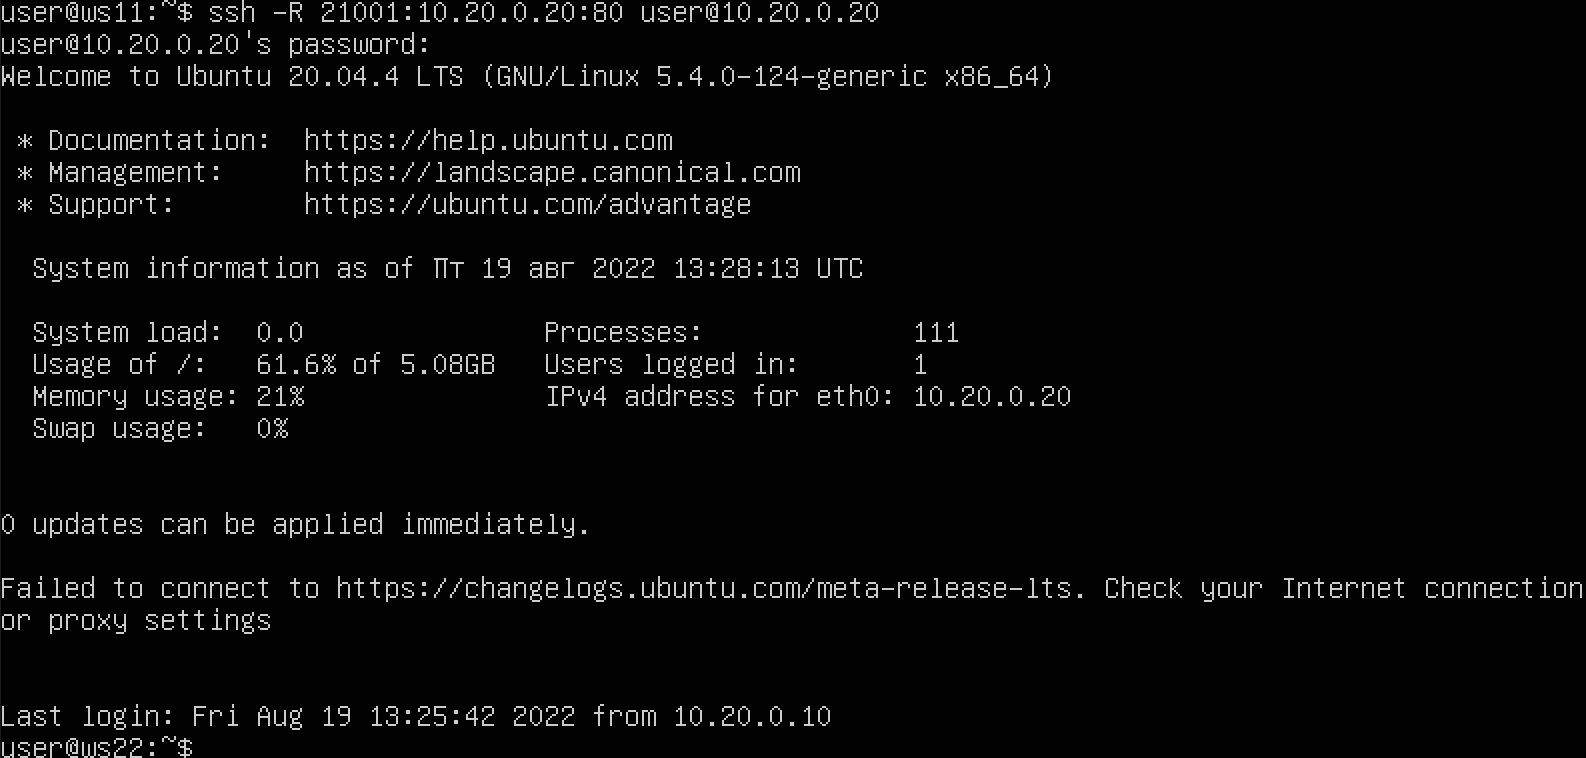
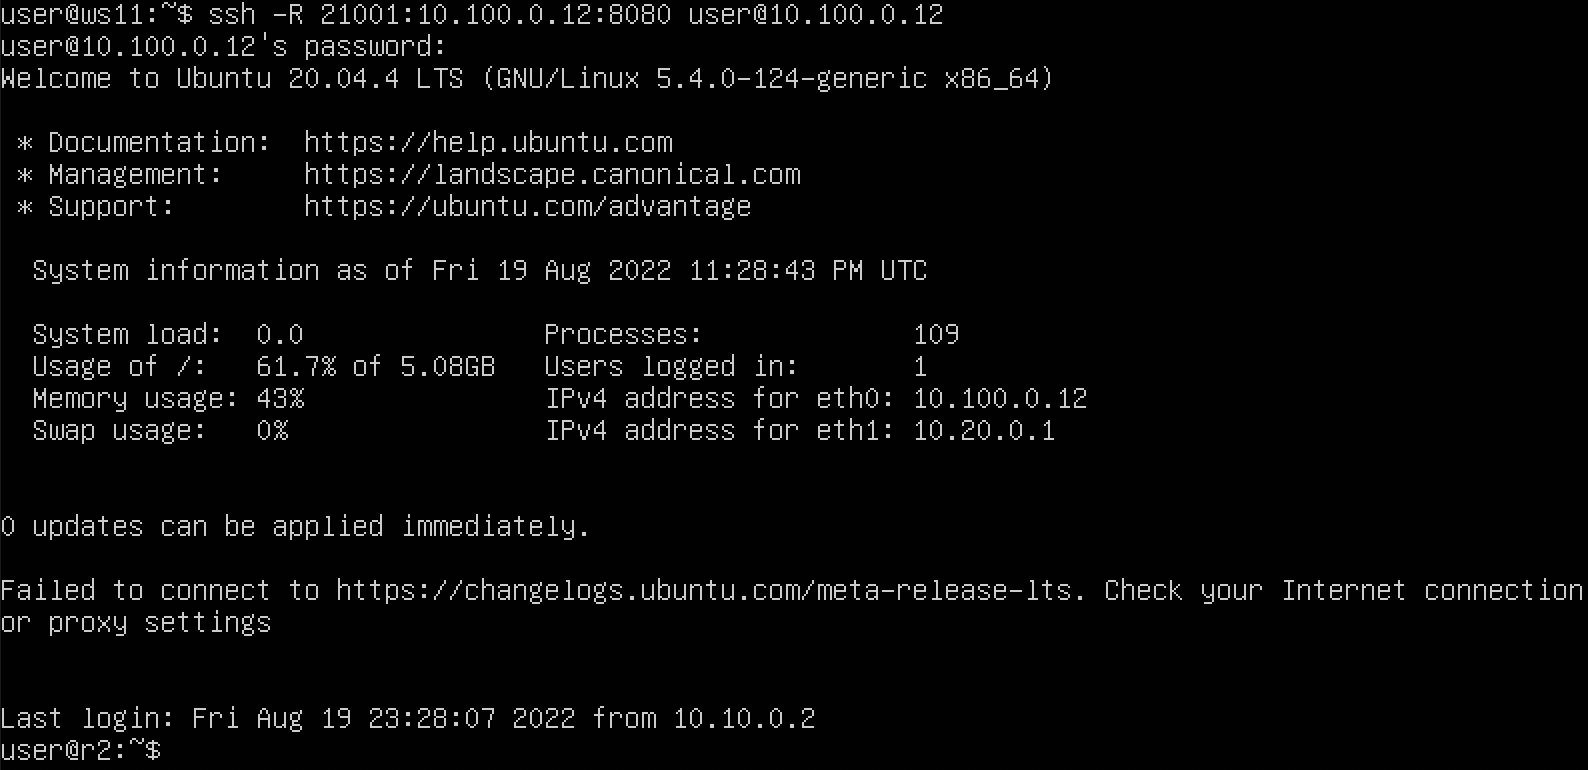
Part 8 is done

diff --git a/src/d02_report.md b/src/d02_report.md
@@ -494,20 +494,23 @@ subnet 10.20.0.0 netmask 255.255.255.192
   ![](screenshots/100.png)
 - Перешёл во второй терминал машины ws21 нажатием Option + Стрелка вправо и обратился на порт 21000 локальной машины через telnet. Порт открыт, что подтверждает создание соединения ssh:\
   ![](screenshots/101.png)
-- На ws11 выполнил команду `ssh -R 21001:10.20.0.20:80 user@10.20.0.20`. Флаг `-R` используется для проброса удалённого порта на локальную машину (Remote TCP forwarding), `21001` - номер удалённого порта, который будет открыт для ssh соединения. Затем указан адрес удалённой машины и её порт, с которым будет установлено соединение. И в конце имя пользователя удалённой машины. Вывод команды:\
+- На ws11 выполнил команду `ssh -R 21001:10.100.0.12:8080 user@10.100.0.12`, чтобы получить доступ до r2. Флаг `-R` используется для проброса удалённого порта на локальную машину (Remote TCP forwarding), `21001` - номер удалённого порта, который будет открыт для ssh соединения. Затем указан адрес удалённой машины и её порт, с которым будет установлено соединение. В конце имя пользователя удалённой машины. Вывод команды:\
   ![](screenshots/102.png)
-- Поскольку порт должен открыться на удалённой машине, команду telnet для проверки порта выполнил на ws22:\
+- Затем через ssh на r2 выполнил команду `ssh -R 21002:10.20.0.20:80 user@10.20.0.20`, чтобы получить доступ до ws22. Вывод команды:\
   ![](screenshots/103.png)
+- Поскольку порт должен открыться на удалённой машине, команду telnet для проверки порта выполнил на ws22:\
+  ![](screenshots/104.png)
 
 ##### Сохранить дампы образов виртуальных машин
-
-- Попробовать переделать 7 парт с правилами 4, 
-- оно не заработает. сформулировать задачу из 4 парта "открыть порт 22 и 80" так, чтобы работал
-и 7 парт и 4 парт и 8 парт.
-- попробовать убрать 8080 порт из 7 задания, оставив только 80 порт. а вдруг заработает?
-- тогда это будет именно то, что нужно
-- если нужные правила iptables будут найдены, переделать скрины для 4 7 и 8 парт
-
+- Сохранил дампы образов виртуальных машин с префиксом "part8_":
+  - ws11:\
+    ![](screenshots/105.png)
+  - ws21:\
+    ![](screenshots/106.png)
+  - ws22:\
+    ![](screenshots/107.png)
+  - r2:\
+    ![](screenshots/108.png)
 
 
 
